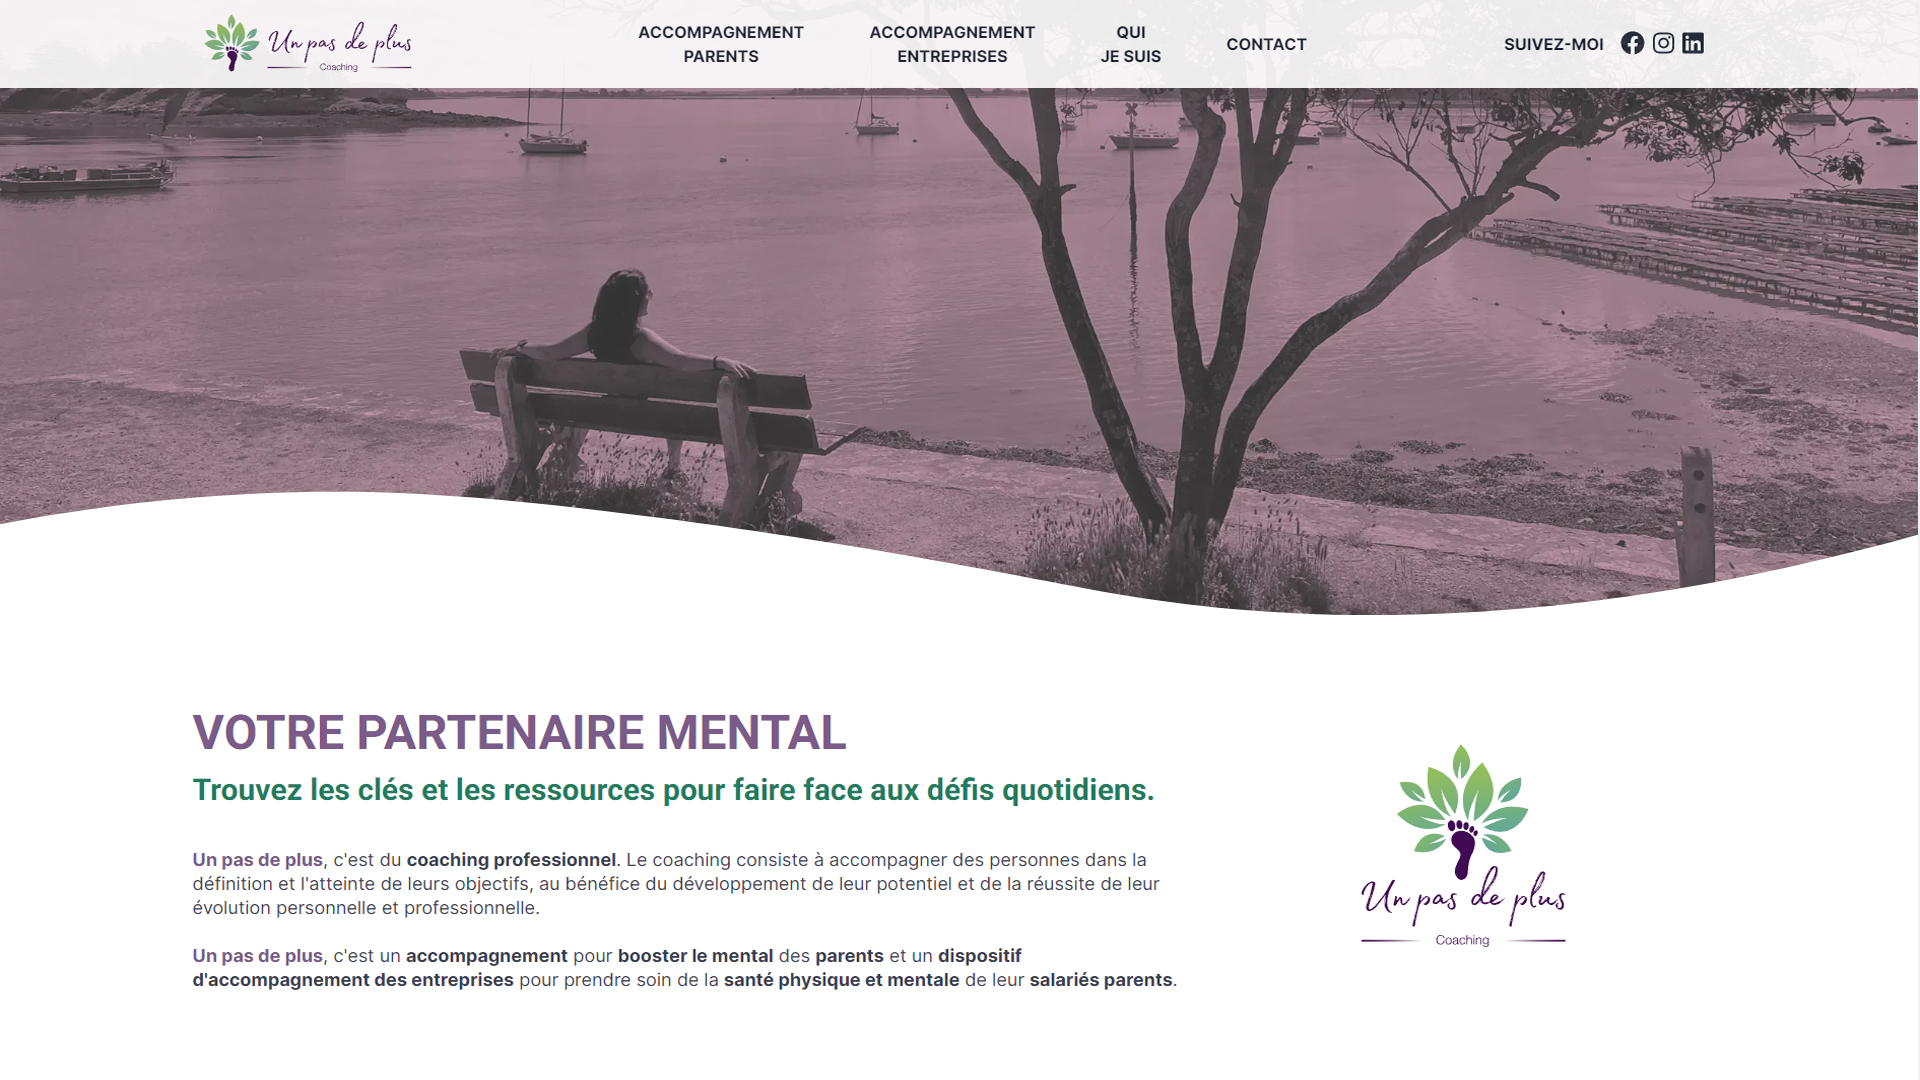
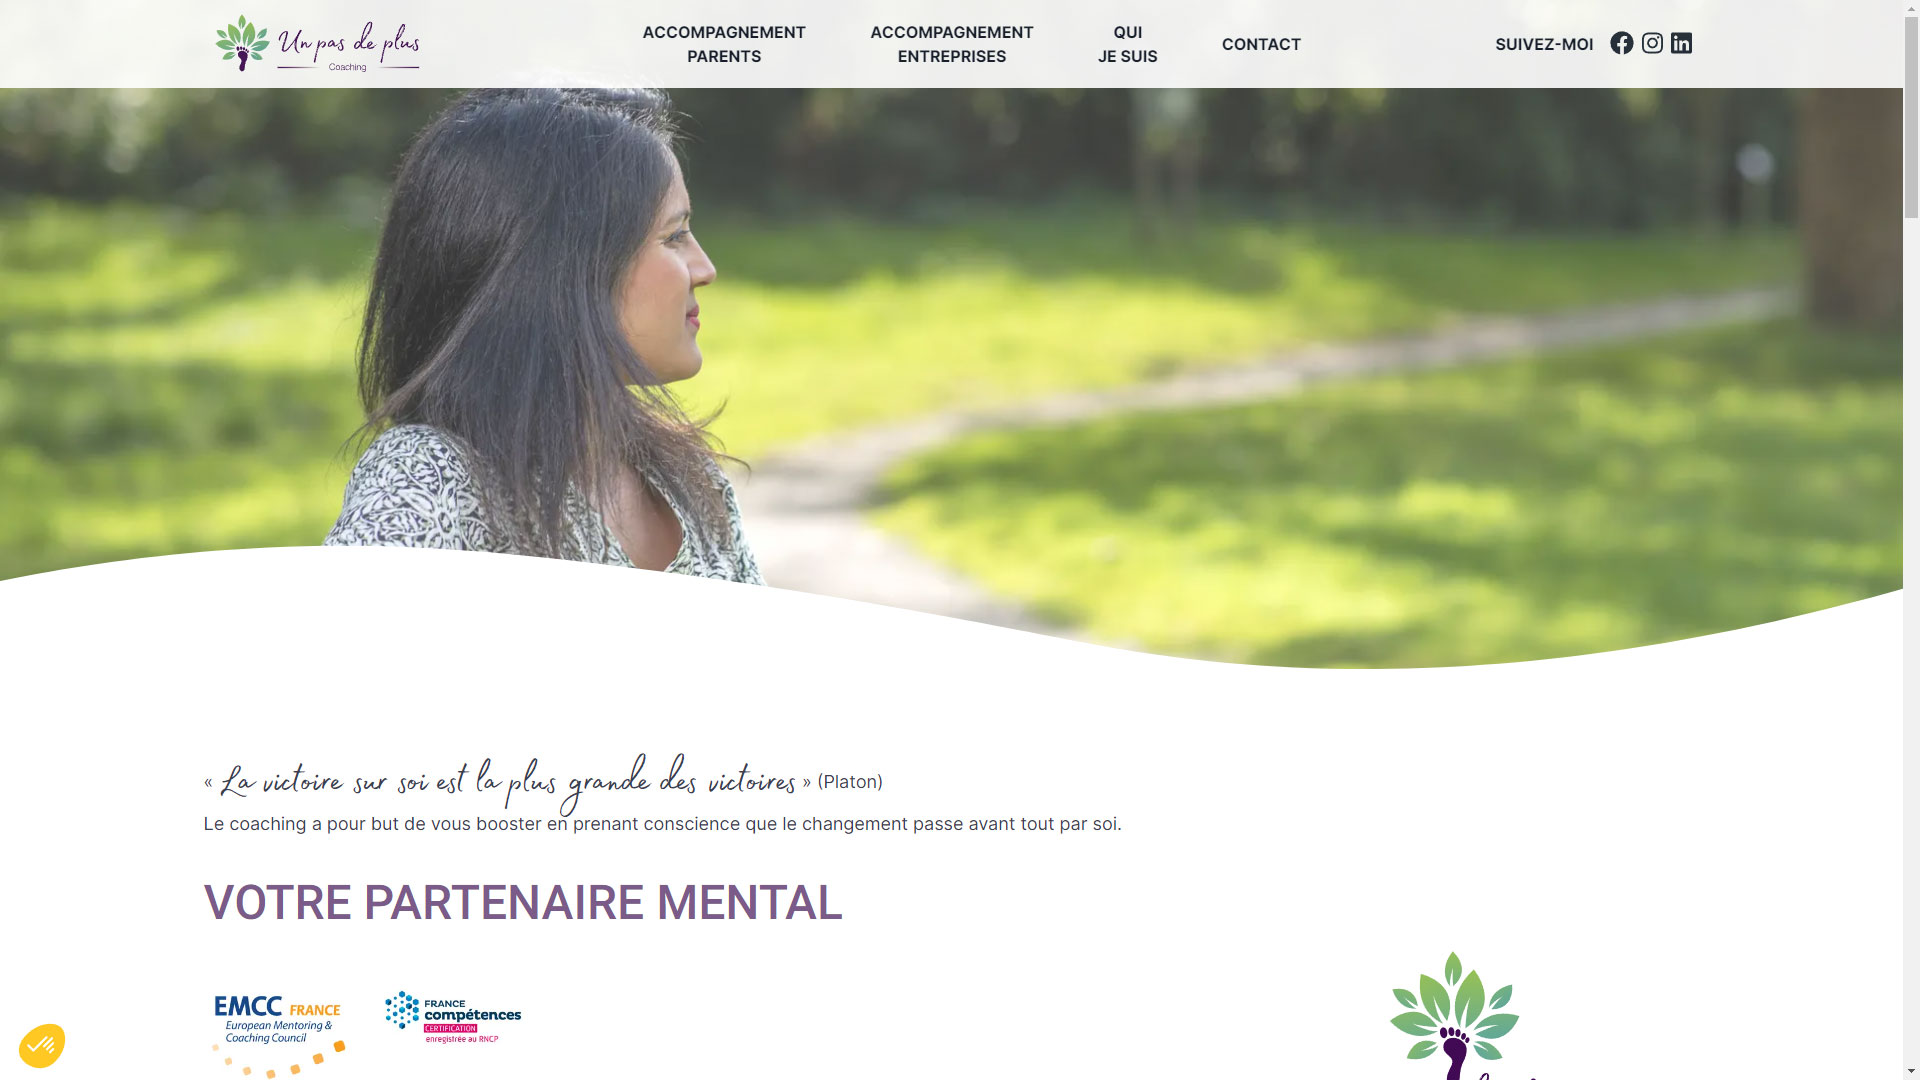
🚧 content update

diff --git a/app/accompagnement-entreprises/page.tsx b/app/accompagnement-entreprises/page.tsx
@@ -4,7 +4,7 @@ import Qui from '../../src/sections/entreprises/qui'
 import Apports from '../../src/sections/entreprises/apports'
 import Services from '../../src/sections/entreprises/services'
 import Qualite from '../../src/sections/entreprises/qualite'
-import Banner from '/public/images/banners/entreprises.webp'
+import Banner from '/public/images/banners/3.jpg'
 import { siteData } from '../../src/data/metadata'
 
 export const metadata = {

diff --git a/src/components/header.tsx b/src/components/header.tsx
@@ -10,7 +10,7 @@ export default function Header({
     banner: banner,
 }) {
     return (
-        <header className="relative min-h-[60vh]" id="header">
+        <header className="relative min-h-[65vh]" id="header">
             <div className="navigation">
                 <div className="container">
                     <div className="row">

diff --git a/styles/_header.scss b/styles/_header.scss
@@ -1,8 +1,4 @@
 header {
-    &::before {
-        // content: '';
-        @apply absolute inset-0 z-10 bg-gradient-to-b from-white via-light-white;
-    }
     .navigation {
         @apply absolute top-0 left-0 z-30 w-full py-3 md:py-1 duration-300 bg-white opacity-90;
         &.sticky {

diff --git a/README.md b/README.md
@@ -31,7 +31,7 @@
 
 ### Preview
 
-![Preview](public/preview.webp)
+![Preview](public/preview.jpg)
 
 ### Build with
 
